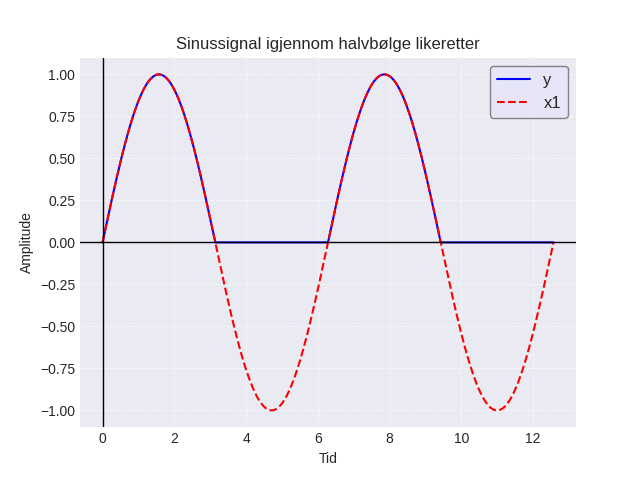
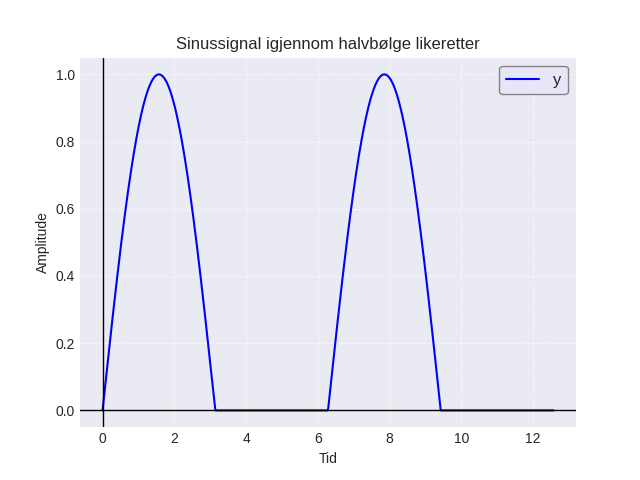
rgesingsina

diff --git a/SDRTableMaker.py b/SDRTableMaker.py
@@ -10,15 +10,26 @@ oscilloscopeFileName = [
 ]
 
 
+
 def SDR(dataMeasure, dataOscilloscope):
-    VxHatAndre = dataOscilloscope["rms"] ** 2
+    VxHat = dataOscilloscope["rms"].item()
+    VxHat2 = VxHat ** 2
 
     frekvens: np.ndarray = dataMeasure["frekvens"]
     frekvensIndex = np.where(frekvens == 2.4)
-    VxAndre = dataMeasure["rms"][frekvensIndex] ** 2
-    sdr = VxAndre / (VxHatAndre - VxAndre)
+
+    Vx = dataMeasure["rms"][frekvensIndex].item()
+    Vx2 = Vx ** 2
+
+    sdr = Vx2 / (VxHat2 - Vx2)
     sdrDB = 10 * np.log10(sdr)
-    return [sdr, sdrDB,dataMeasure["rms"][frekvensIndex],dataOscilloscope["rms"]]
+
+    print(f"________________________________")
+    print(f"Vx = {Vx} \nVx² = {Vx2} \nVxhat = {VxHat} \nVxhat² = {VxHat2} \nSDR = {sdr} \nSDR[dB] = {sdrDB}")
+    print(f"________________________________")
+
+    return [sdr, sdrDB, Vx, VxHat]
+
 
 
 measureData = [fM.loadDataMeasurements(fileName) for fileName in measureFileName]
@@ -48,11 +59,11 @@ plt.figure(figsize=(12, 8))
 # plt.tight_layout()
 for data in zip(measureData, oscilloscopeData, ["1k", "100", "50"], [1, 2, 3]):
     SDRVals = SDR(data[0], data[1])
-    print(f"R={data[2]} | SDR:{SDRVals[0][0]} | SDRdB:{SDRVals[1][0]}")
+    print(f"R={data[2]} | SDR:{SDRVals[0]} | SDRdB:{SDRVals[1]}")
     R =data[2]
     if data[2] == "1k":
         R = "1000"
-    tableFile.write(f"{int(R)} &  {float(SDRVals[0][0]):.3} &  {float(SDRVals[1][0]):.3} & {float(Q(data[2])):.3} & {float(SDRVals[2]):.3}& {float(SDRVals[3]):.3} \\\\ \n")
+    tableFile.write(f"{int(R)} &  {float(SDRVals[0]):.3} &  {float(SDRVals[1]):.3} & {float(Q(data[2])):.3} & {float(SDRVals[2]):.3}& {float(SDRVals[3]):.3} \\\\ \n")
     tableFile.write("\\hline \n")
 
     T = 1 / 2.4e3
@@ -88,7 +99,7 @@ for data in zip(measureData, oscilloscopeData, ["1k", "100", "50"], [1, 2, 3]):
     plt.ylabel("Spenning [mV]", fontsize=12)
 
     plt.title(
-        f"SDR = {SDRVals[1][0]:.2f}dB, R={data[2]}Ω", fontsize=14, fontweight="bold"
+        f"SDR = {SDRVals[1]:.2f}dB, R={data[2]}Ω", fontsize=14, fontweight="bold"
     )
 
     plt.plot(

diff --git a/test.py b/test.py
@@ -20,14 +20,21 @@ T = 1
 t = np.linspace(-T * 2, T * 2, 10000)
 
 
-# for n_terms in [1, 2, 3, 5, 10, 20, 50, 100]:
-for n_terms in [100]:
+for n_terms in [1, 2, 3, 5, 10, 20, 50, 100]:
+# for n_terms in [100]:
     n_values = np.arange(0, n_terms + 1)
     c_values = np.array([cn(n) * (n == 0) + (n != 0) * cn(n) * 2 for n in n_values])
 
     plt.stem(n_values, np.abs(c_values))
 
     plt.show()
+
+    # n_values = np.arange(-n_terms, n_terms + 1)
+    # c_values = np.array([cn(n) * (n == 0) + (n != 0) * cn(n) for n in n_values])
+
+    # plt.stem(n_values, c_values)
+
+    # plt.show()
 
     n_values = np.arange(-n_terms, n_terms + 1)
     c_values = np.array([cn(n) for n in n_values])

diff --git a/halvbølgeLikeretterplot.py b/halvbølgeLikeretterplot.py
@@ -7,7 +7,7 @@ plt.style.use("seaborn-v0_8-dark")
 
 t = np.linspace(0,4*np.pi,1000)
 plt.plot(t,np.clip(np.sin(t),0,1) ,color="blue",label="y")
-plt.plot(t,np.sin(t),linestyle="--",color="red",label="x1")
+# plt.plot(t,np.sin(t),linestyle="--",color="red",label="x1")
 plt.title("Sinussignal igjennom halvbølge likeretter")
 plt.legend(frameon=True, edgecolor="dimgray", facecolor="lavender", fontsize=12)
 plt.xlabel("Tid")
